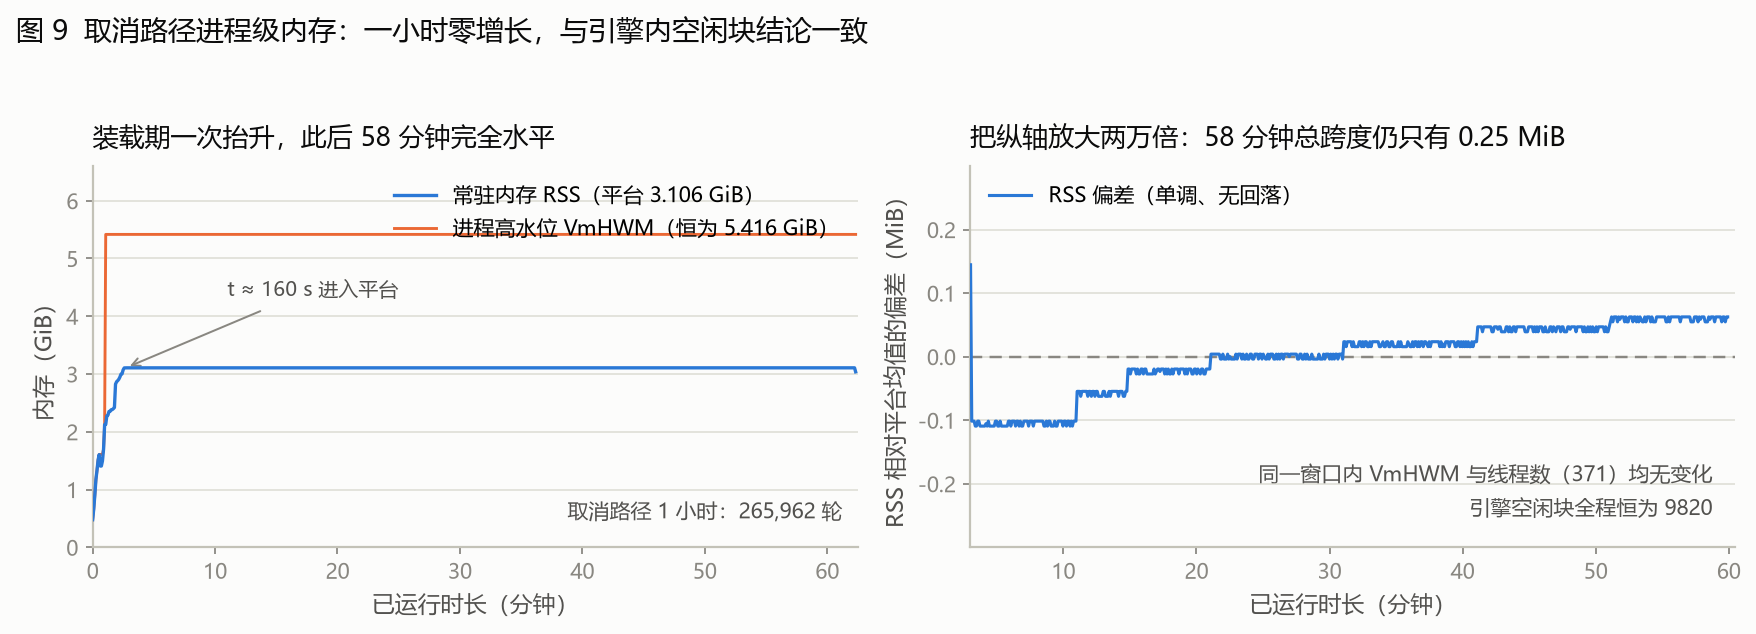
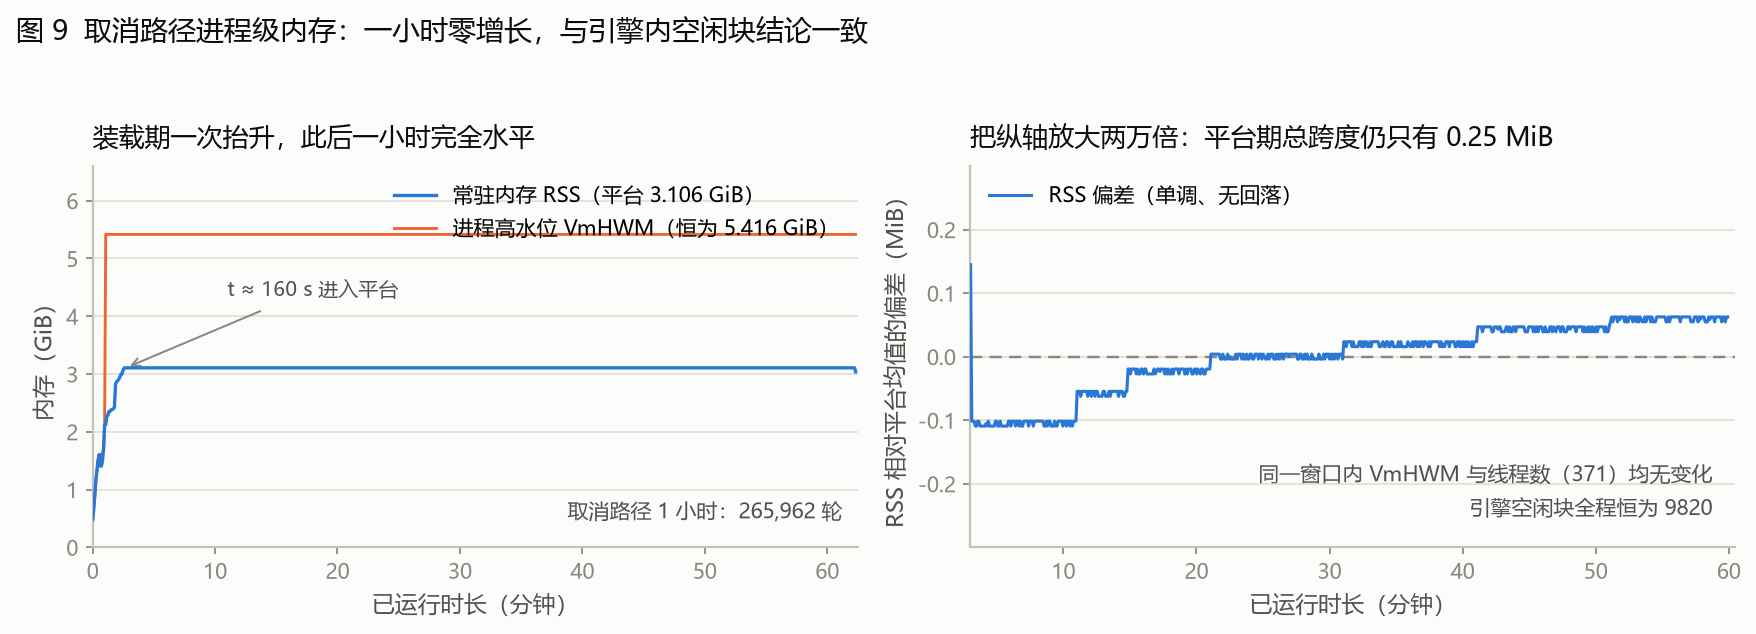
图 9 文案统一为一小时平台期口径

Changed region(s): [[0.6765, 0.1798, 0.8918, 0.2397], [0.1845, 0.1798, 0.3075, 0.2397]]

diff --git a/SOAK_REPORT.md b/SOAK_REPORT.md
@@ -93,8 +93,8 @@
 
 **图 9**：图 4 只有引擎内部读数，缺被测**进程自身**的曲线。因此把取消路径单独重跑一小时，
 同时采集该进程的 RSS、高水位与线程数。**图 9 左**：装载在 `t ≈ 160 s` 完成后 RSS 进入平台，
-其后 58 分钟**完全水平**；高水位恒定在 5.416 GiB，说明装载期触摸过的地址空间此后没有被突破。
-**图 9 右**：把纵轴放大两万倍看平台期，**58 分钟的总跨度只有 0.25 MiB**，单调、无回落。
+其后一小时**完全水平**；高水位恒定在 5.416 GiB，说明装载期触摸过的地址空间此后没有被突破。
+**图 9 右**：把纵轴放大两万倍看平台期，**一小时的总跨度只有 0.25 MiB**，单调、无回落。
 
 进程级与引擎级两个层次在同一小时内给出同一个结论：取消路径不积累任何状态。
 
